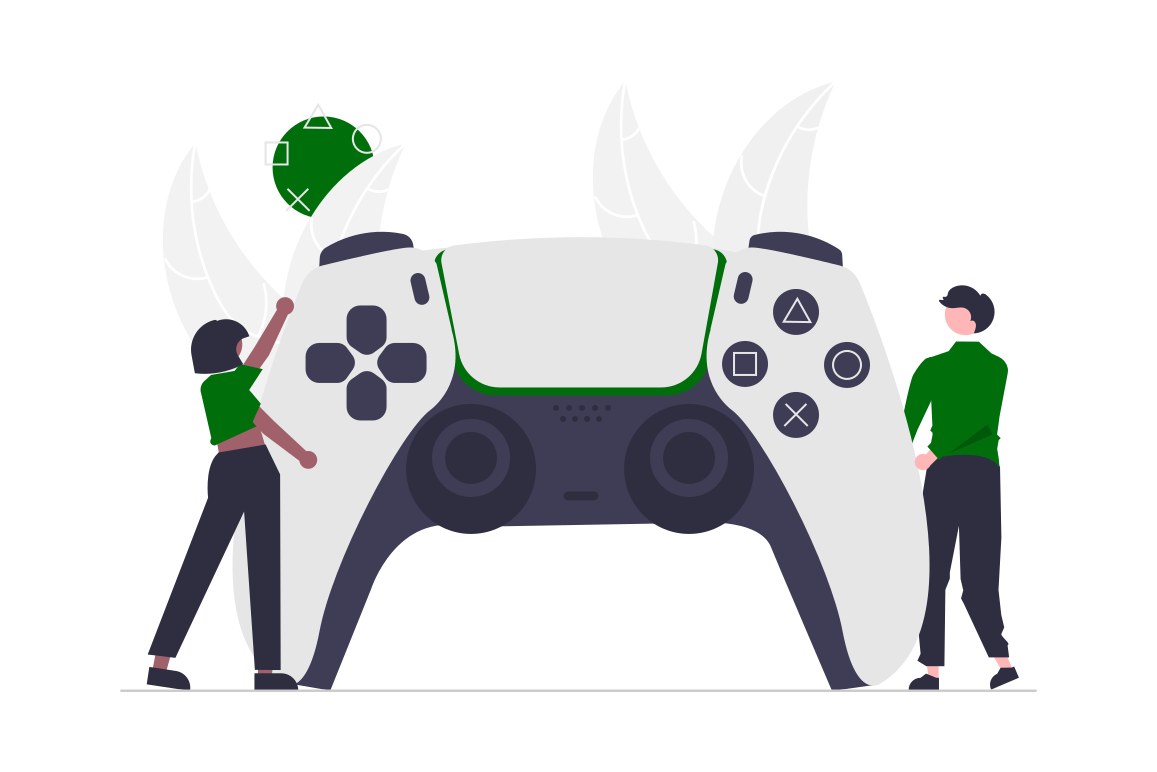
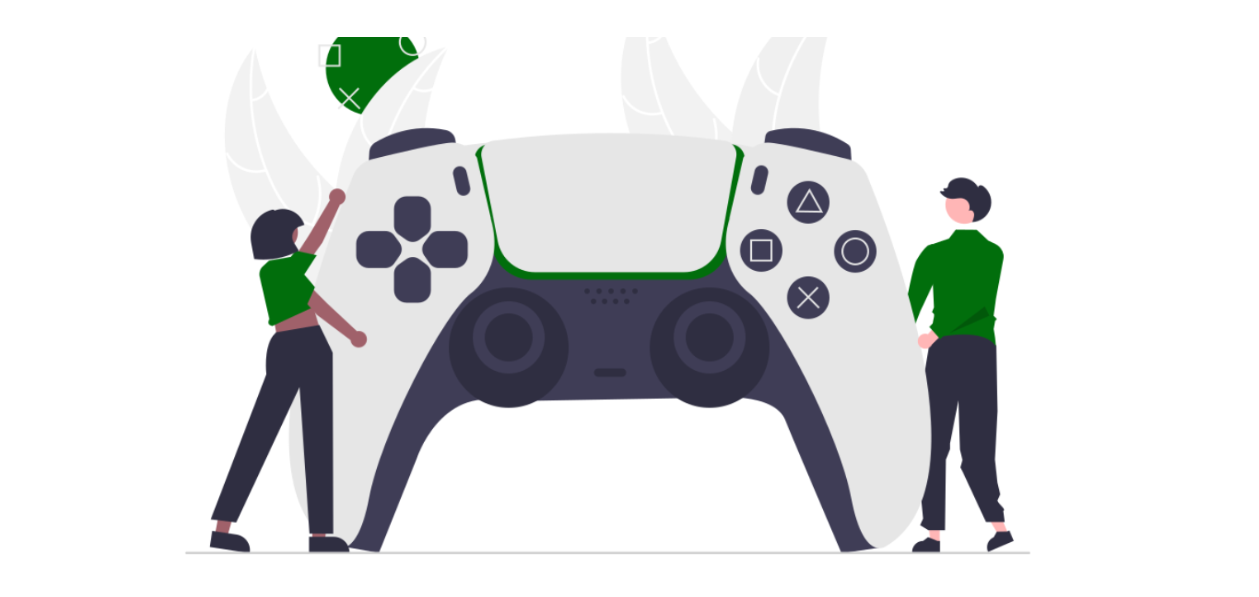
Cambio de tamaño de imagenes

Changed region(s): [[0.1245, 0.0603, 0.9023, 0.9347]]

diff --git a/_includes/talleres.html b/_includes/talleres.html
@@ -1,6 +1,6 @@
 <!-- Portfolio Grid -->
 {% if site.locale and site.locale != "" and site.locale != nil %}
-<section class="page-section" id="talleres">
+<section class="page-section bg-light" id="talleres">
 <div class="container">
     <h2 class="section-heading text-uppercase text-center">Talleres</h2>
     <h3 class="section-subheading text-muted mb-4 text-center">Talleres del congreso</h3>
@@ -12,7 +12,7 @@
                 <p class="card-text small">{{ taller.descripcion }}</p>
             </div>
             <img src="{{ taller.img }}" class="card-img-bottom" alt="...">
-            <button type="button" class="btn btn-primary btn-block rounded-0">Block level button</button>
+            <button type="button" class="btn btn-primary btn-block rounded-0">Inscribirse</button>
         </div>
         {% endfor %} 
     </div>
